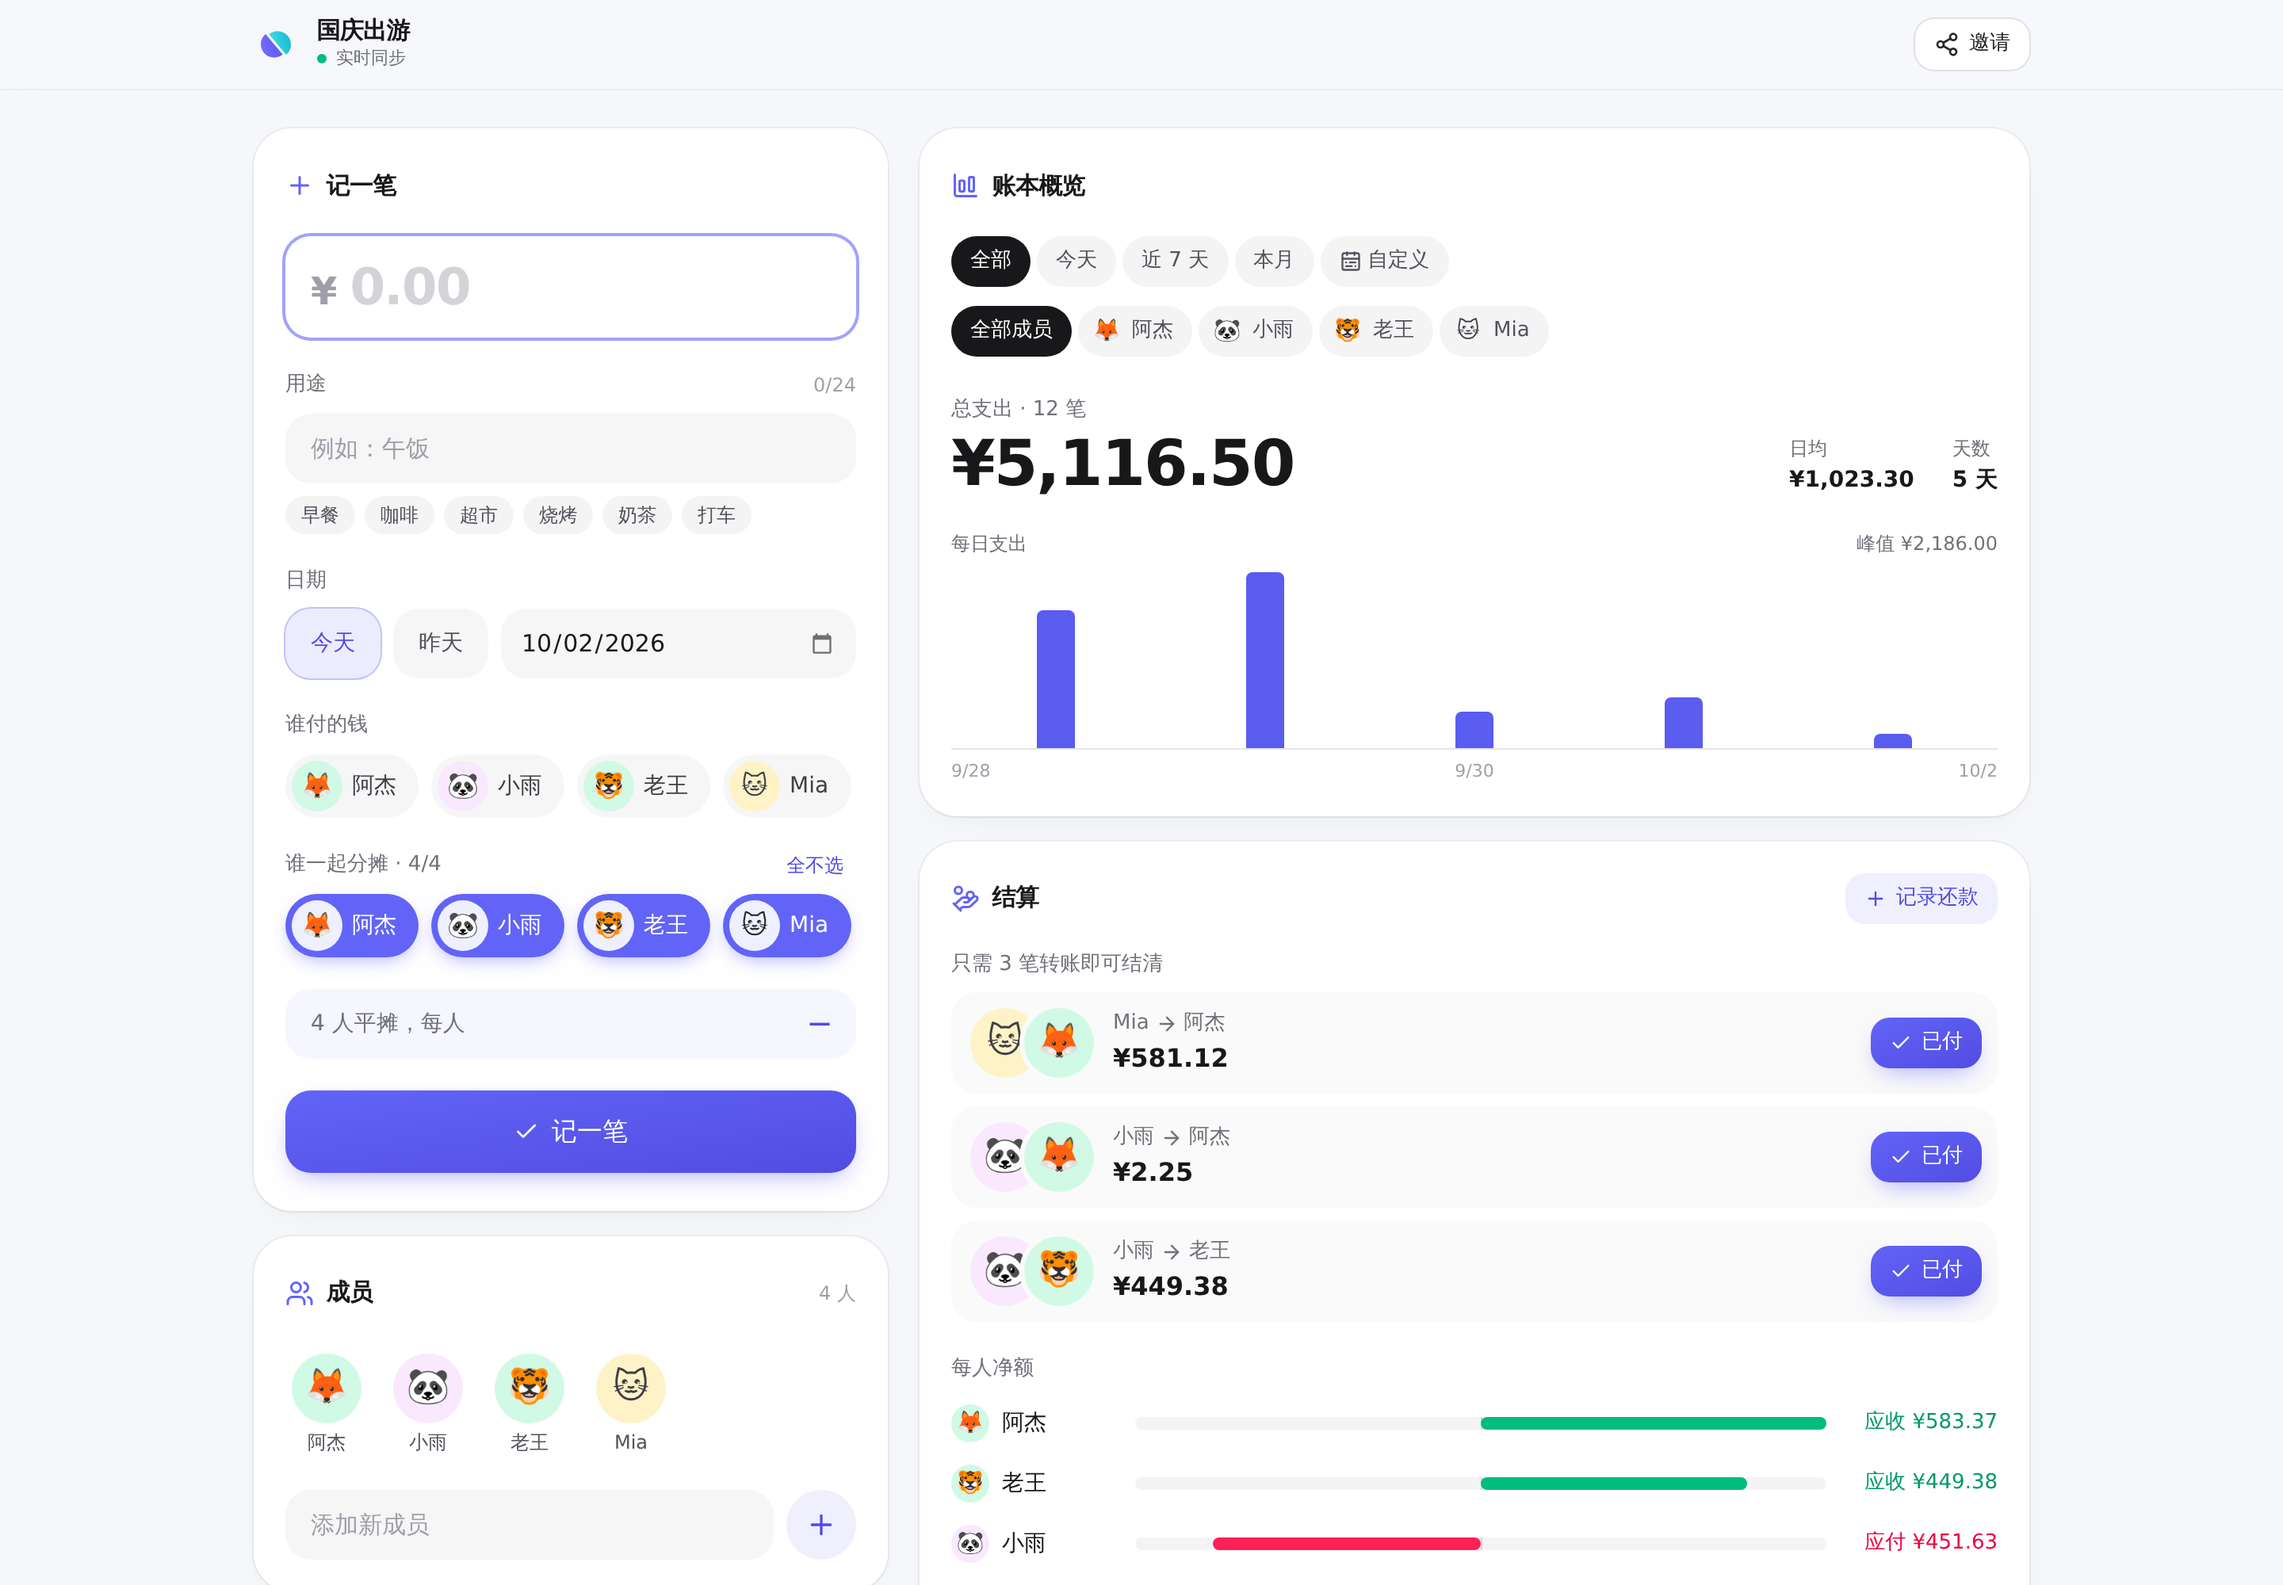
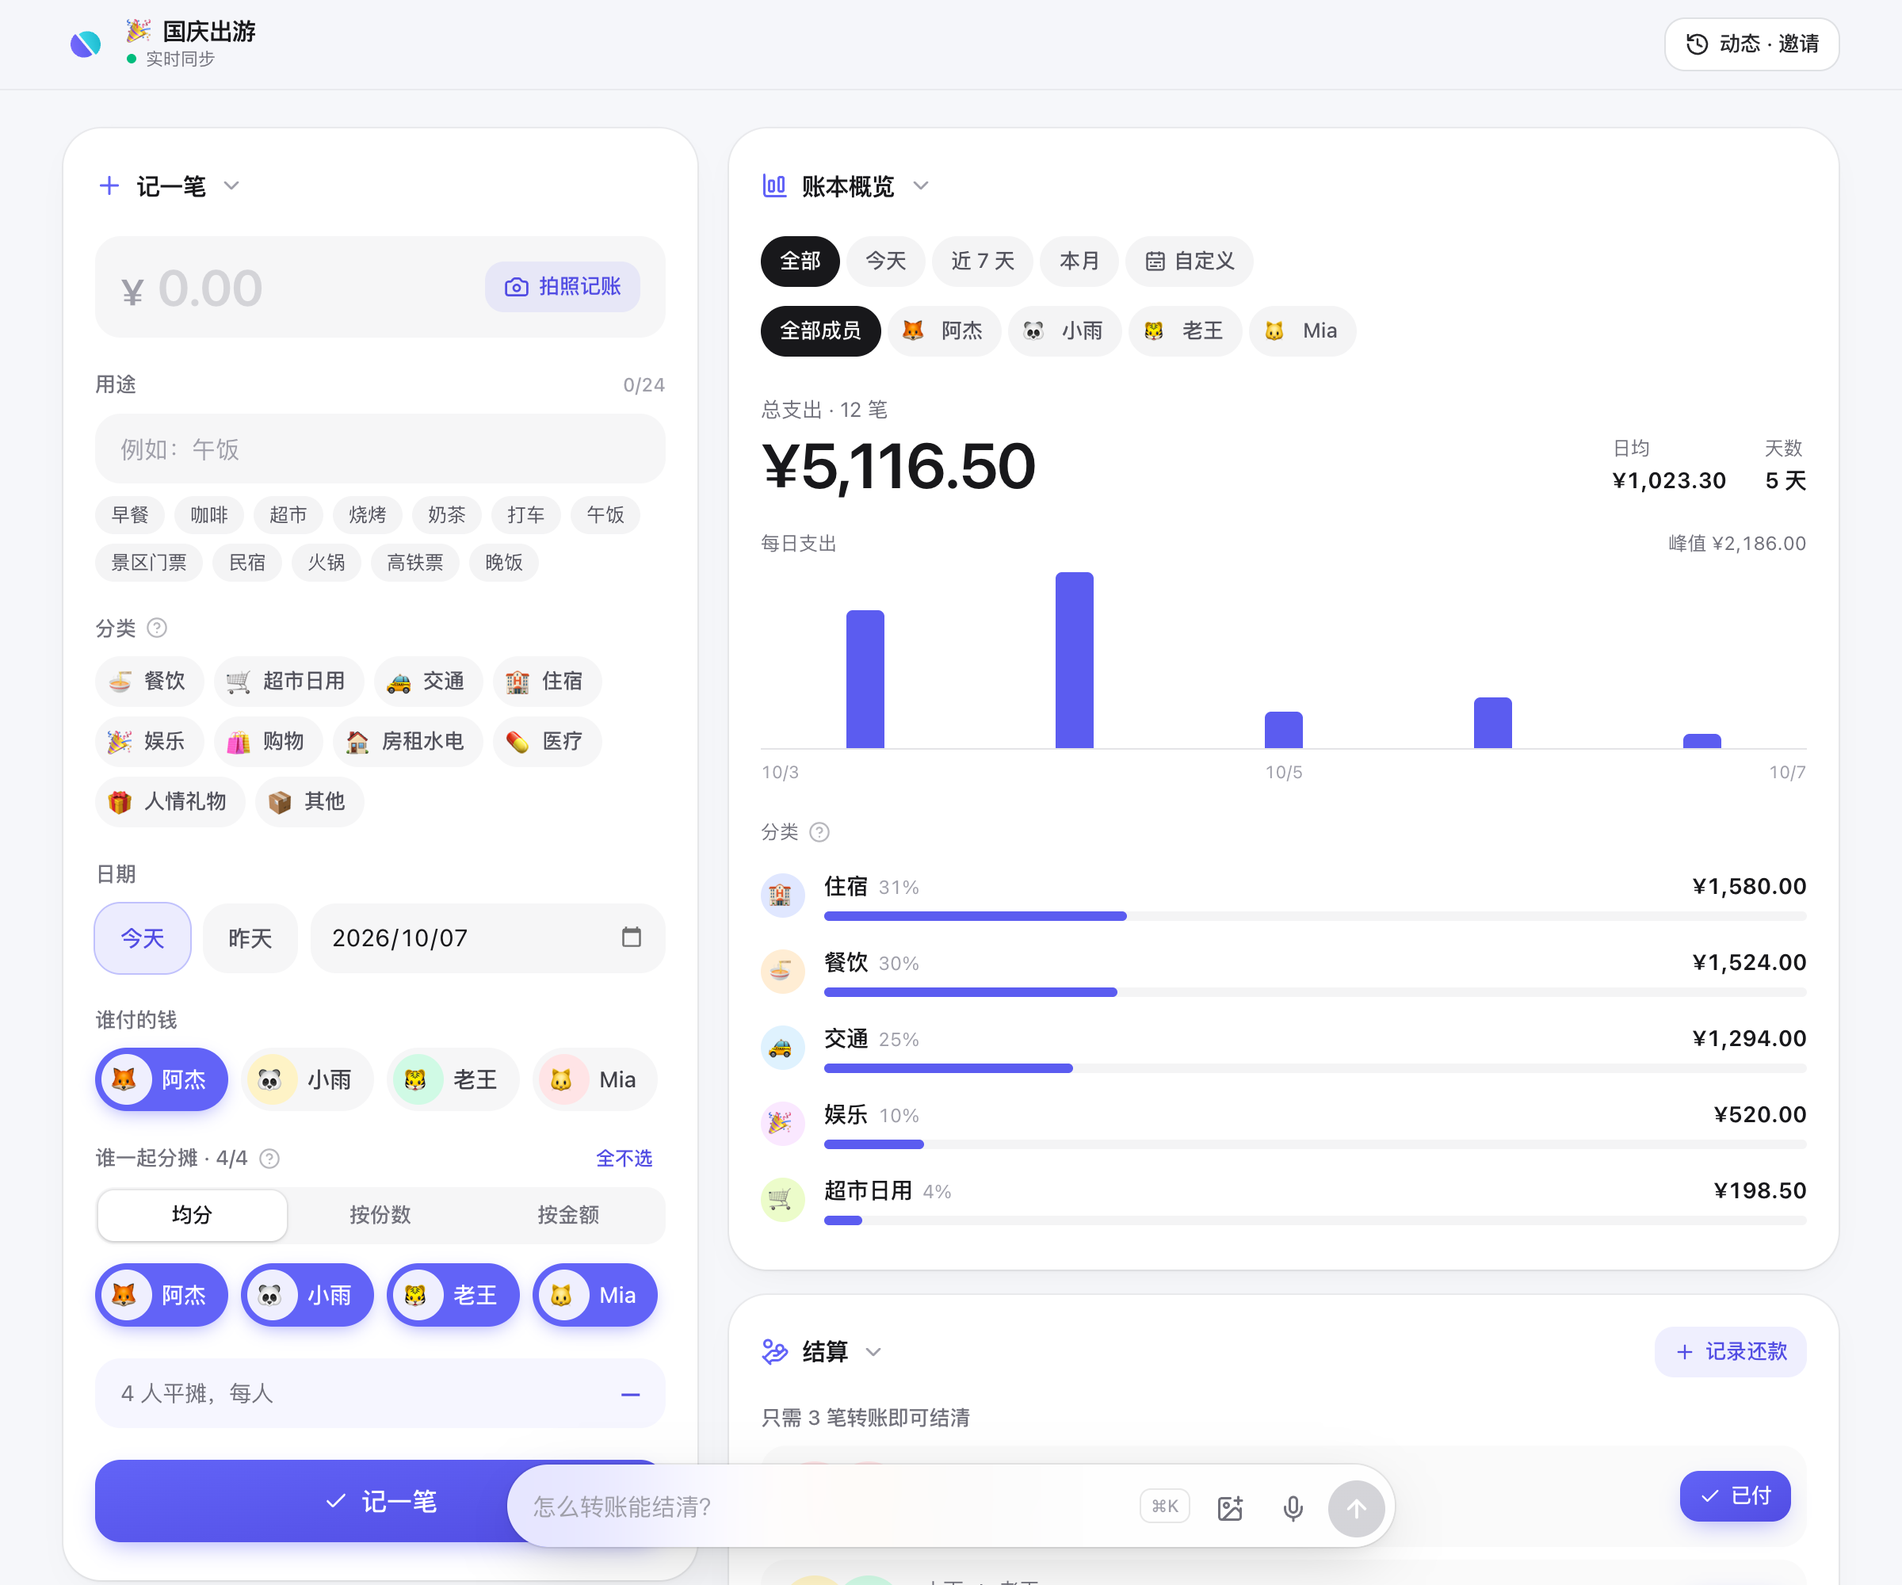
docs: 更新 README 与 CLAUDE.md（AI 助手、变更集写路径），重拍截图

diff --git a/README.md b/README.md
@@ -7,10 +7,13 @@
 <p align="center">一起花钱，轻松算账 —— 多人记账、实时同步、一键结算</p>
 
 <p align="center">
+  <img src="docs/screenshots/desktop-assistant.png" width="720" alt="AI 助手生成待确认的变更卡片" />
+</p>
+<p align="center">
   <img src="docs/screenshots/desktop-ledger.png" width="720" alt="桌面端账本" />
 </p>
 <p align="center">
-  <img src="docs/screenshots/mobile-settlement.png" width="240" alt="移动端结算" />
+  <img src="docs/screenshots/mobile-assistant.png" width="240" alt="AI 助手生成的分类图表" />
   <img src="docs/screenshots/mobile-dark.png" width="240" alt="深色模式" />
 </p>
 <p align="center">
@@ -25,8 +28,14 @@
 - **多日账本**：账目按天分组展示，每天带小计；支持「全部 / 今天 / 近 7 天 / 本月 / 自定义」范围与按成员筛选，附每日（或每月）支出柱状图，点击柱子可下钻到当天
 - **结算**：综合全部支出与已记录的还款，计算每人净额并给出**最少转账方案**；点「已付」即记下一笔「谁向谁支付了多少」（可撤销），也可手动记录任意还款
 - **记账**：金额、用途（常用用途一键填入）、日期、分类、付款人、分摊成员；分摊可选均分、按份数（如大人 2 份、小孩 1 份）或按金额（每人填多少，合计等于总额）；付款人一选就记住、下次自动预选，分摊成员沿用上一笔；从邀请链接首次进入时会问「你是哪一位」，选择已有成员或把自己加进来即设为默认付款人；支出可编辑、删除
-- **AI 助手**：账本页底部的输入条，用一句话记账、改账、加成员、记还款，或问「这个月花在哪了」并直接给出余额、转账方案、分类、趋势等卡片；拍照或粘贴小票可识别出多笔支出。AI 的写操作只生成待确认的变更卡片，确认后才写入，执行后可撤销（需配置 `GEMINI_API_KEY`）
-- **分类概览与导出**：概览按分类汇总支出；明细可按分类、成员、关键词与日期范围筛选，并把当前筛选结果导出为 CSV
+- **AI 助手**（需配置 `GEMINI_API_KEY`）：账本页底部的输入条，支持一句话、拍照（或粘贴小票）和语音记账，也能改账、加成员、记还款，或问「这个月花在哪了」
+  - 回复流式输出；一句话里的多笔变更会依次生成卡片，照片识别时每张卡片逐字段生成
+  - 写操作只生成待确认的变更卡片，确认后原子执行；执行后可撤销，撤销后还能重新执行
+  - 确认前可以在对话里继续说「改成 30」「去掉小王」，也可以直接编辑卡片，提议会在原卡片上更新
+  - 查账结果以卡片展示：余额、转账方案、分类、趋势、明细。图表种类由 AI 选择，数字全部由前端用实时账本数据计算，不经过模型；卡片可一键跳到明细查看
+  - AI 助手写入的记录在「动态」里标注「经 AI 助手」，同样进入审计链
+- **分类概览与导出**：支出带分类图标（餐饮、交通、住宿等），概览按分类汇总；明细可按分类、成员、关键词与日期范围筛选，并把当前筛选结果导出为 CSV
+- **撤销**：每次写入都是一个变更集，记账、改账、删除、还款、AI 助手的操作都能撤销，并精确还原原来的份额
 - **金额精确**：全程以「分」为整数存储，均摊的零头按成员加入顺序分配，合计永远等于总额
 - **实时同步**：基于 WebSocket，其他人的操作即时出现并弹出通知；断线自动重连并补齐数据
 - **管理员卡片**：管理员登录后，账本页顶部多一张可折叠的管理卡片——切换 / 新建 / 删除账本，修改账本名称与图标（emoji，显示在账本页标题上），为当前账本生成带有效期的口令（1 天、7 天、30 天、永久或自定义时间段）、二维码邀请；撤销口令后用它登录的成员立即失效。`/admin` 是管理员登录入口
@@ -61,6 +70,8 @@
 
 - **每个账本一个独立数据库**：Cloudflare 上是一个 Durable Object（数据与实时连接在同一个对象里，强一致），Docker 中是一个 SQLite 文件
 - **版本号驱动的同步**：每次变更递增版本号并广播事件，客户端发现缺口时自动重新拉取快照
+- **所有写入都是变更集**：成员、支出、还款的增改删统一表示为一组 `Change`，经 `LedgerService.applyChanges` 在一个事务里原子执行（任何一条失败则全部回滚），逐条写入审计，并返回可直接回放的撤销变更集；`previewChanges` 在草稿上预演同一组变更而不落库。网页、MCP 与 AI 助手共用这一条写路径（`POST /api/ledger/changes`）
+- **AI 助手的数据流**：前端带上对话历史与待确认的修改请求 `POST /api/ledger/assistant`；服务端把待确认修改套在账本草稿上预演，让 Gemini 通过函数调用读账、提议变更；回复用 SSE 推送 `step`（工具调用进度）/ `text`（流式文字）/ `draft`（照片识别中逐字段生成的卡片）/ `pending`（合并后的待确认变更集）/ `view`（查账卡片）/ `done` 事件。AI 不会直接写入，用户在卡片上确认后，前端才经 `/api/ledger/changes` 写入，之后的撤销与重新执行也走同一接口
 - **会话**：口令换取随机会话令牌（HttpOnly Cookie），服务端只存其 SHA-256；撤销口令或删除账本会通过外键级联让会话立即失效
 
 ## 快速开始（本地开发）
@@ -154,7 +165,7 @@ AAPay 自带一个远程 MCP 服务器，地址就是 `https://你的域名/mcp`
 
 添加后应用会打开 AAPay 的授权页：已在这个浏览器打开过账本可以一键授权，否则输入该账本的分享口令；还可以关掉「记账、修改与删除」只给只读权限。之后就可以直接说「我付了 128 的晚饭，四个人分」「这周谁花得最多」「怎么转账能结清」。AI 做的修改会实时出现在所有人的页面上，并提示是哪个应用改的。
 
-**提供的工具**：`get_ledger`（成员、余额、分类汇总、最少转账方案）、`list_transactions`（按日期 / 成员 / 分类 / 关键字查询）、`add_expense` / `update_expense` / `delete_expense`、`add_member` / `update_member`、`record_settlement` / `delete_settlement`、`list_activity`（操作动态）。金额以「元」为单位，成员可以直接用名字指代；记账可带分类，可以均分，也可以按金额或份数自定义分摊。工具描述、说明与错误提示都是英文（只给模型看），AI 会用你的语言回复，账本和成员名字保持原样。
+**提供的工具**：`get_ledger`（成员、余额、分类汇总、最少转账方案）、`list_transactions`（按日期 / 成员 / 分类 / 关键字查询）、`add_expense` / `update_expense` / `delete_expense`、`add_member` / `update_member`、`record_settlement` / `delete_settlement`、`list_activity`（操作动态）。金额以「元」为单位，成员可以直接用名字指代；`add_expense` / `update_expense` 可带 `category`（不填则按用途猜测），分摊可用 `participants` 均分，也可用 `shares` 按金额或份数自定义，二者不能同时传。工具描述、说明与错误提示都是英文（只给模型看），AI 会用你的语言回复，账本和成员名字保持原样。
 
 **管理员连接**：已登录的管理员在授权页可以选择「全部账本」，AI 就能管理所有账本：`list_ledgers`、`create_ledger`（默认同时生成口令并返回邀请链接）、`update_ledger`（名称与图标）、`delete_ledger`（需再次输入名称确认）、`list_passphrases` / `create_passphrase` / `revoke_passphrase`；账本内的工具用 `ledger` 参数（名称或 ID）指定账本。管理员授权 30 天有效，在账本页的「连接 AI」中可查看与断开；关闭管理后台或把此人移出 `ADMIN_EMAILS` 后立即失效。还没登录时，授权页有「以管理员身份登录」入口，登录后自动回到授权页。
 
@@ -176,7 +187,7 @@ AAPay 自带一个远程 MCP 服务器，地址就是 `https://你的域名/mcp`
 
 ```
 src/
-├── shared/             前后端共用：类型、zod 校验、金额工具、结算算法、事件 reducer
+├── shared/             前后端共用：类型、zod 校验、变更集、AI 助手协议（assistant.ts）、金额工具、结算算法、事件 reducer
 ├── server/
 │   ├── app.ts          Hono API（平台无关）
 │   ├── config.ts       环境变量解析
@@ -184,7 +195,7 @@ src/
 │   ├── core/           RegistryService（账本、口令、会话、OAuth 授权）、LedgerService、SQL 抽象、RPC 信封
 │   ├── mcp/            OAuth 2.1 授权服务器、MCP 端点（JSON-RPC）与管理员工具
 │   ├── tools/          账本工具：读工具与写工具的 plan / describe（MCP 与 AI 助手共用）
-│   ├── ai/             AI 助手：Gemini 流式客户端、对话循环、变更集折叠、票据增量解析
+│   ├── ai/             AI 助手：Gemini 流式客户端（gemini）、票据增量解析（item-stream）、待确认变更合并（pending）、提示词（prompts）、对话循环（assistant）
 │   ├── cloudflare/     Worker 入口与 Durable Objects
 │   └── node/           Node 入口、node:sqlite 驱动、WebSocket 房间
 └── web/                React 前端（features/ledger、features/assistant、features/admin、features/join、features/oauth）
